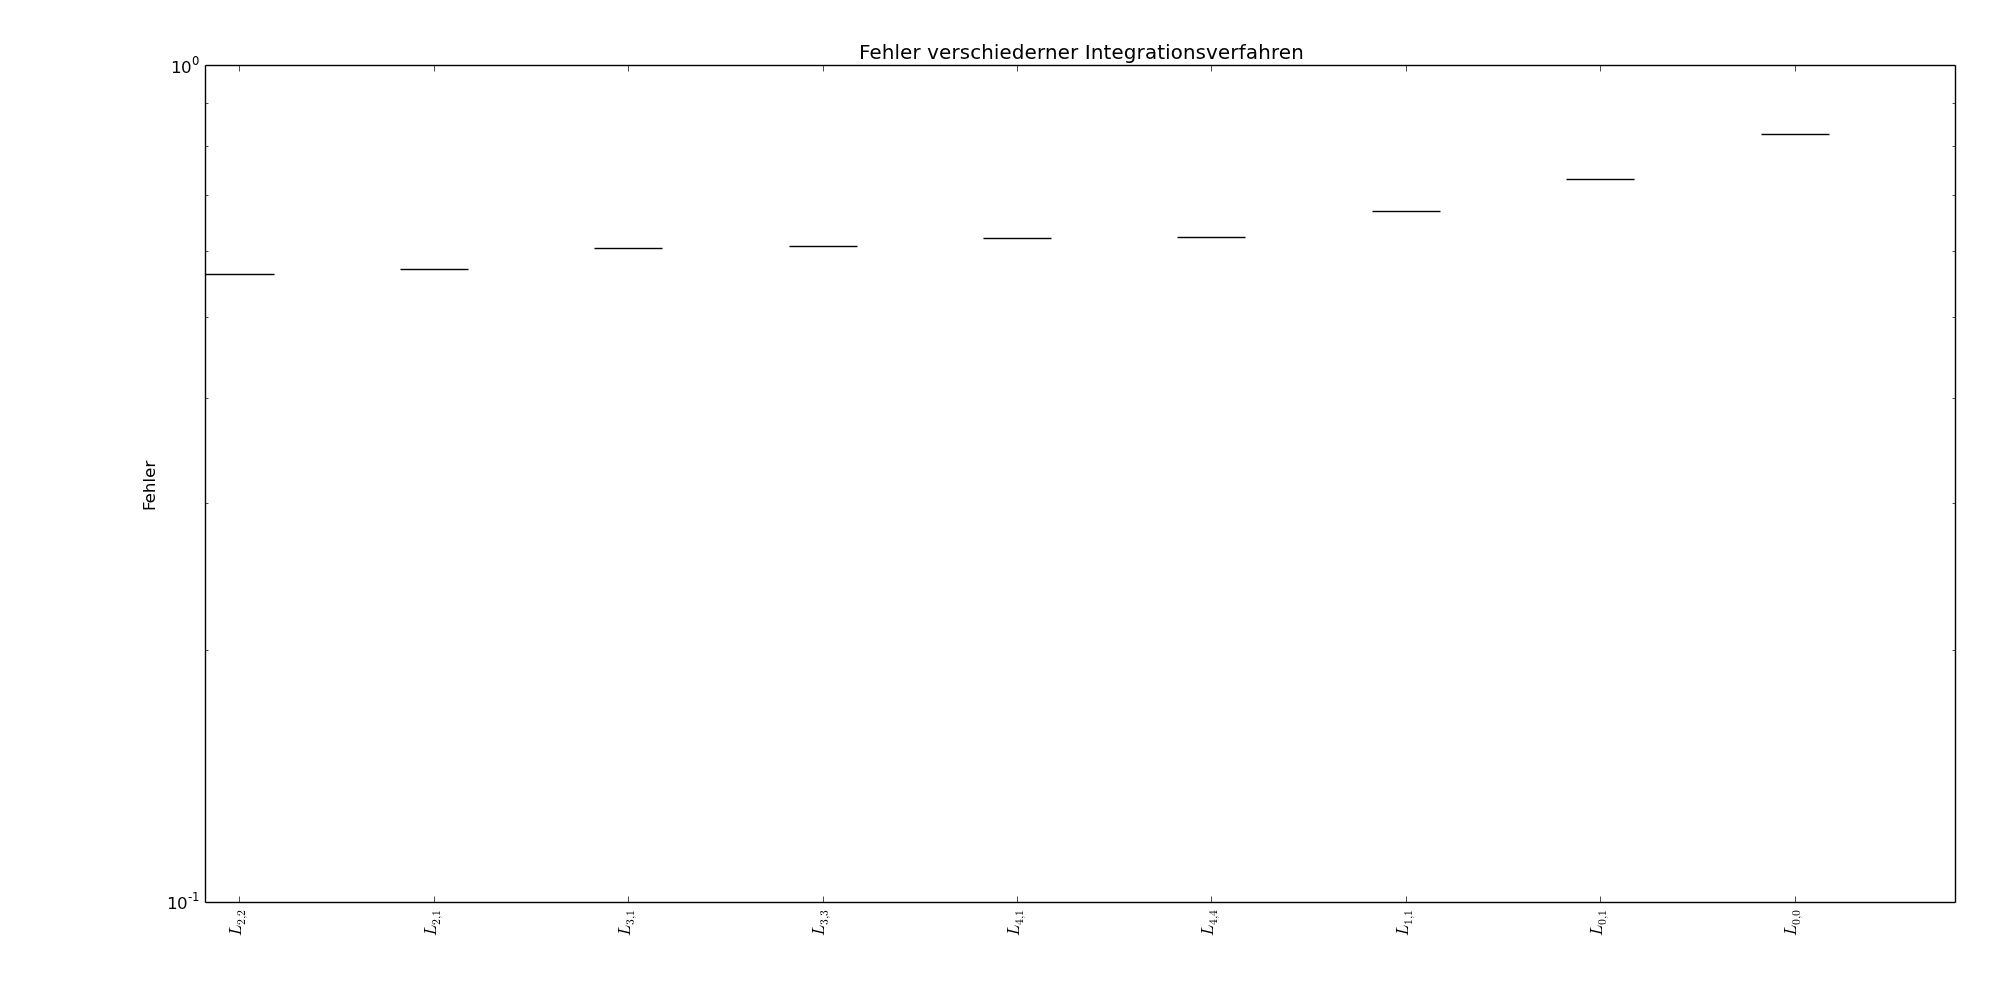
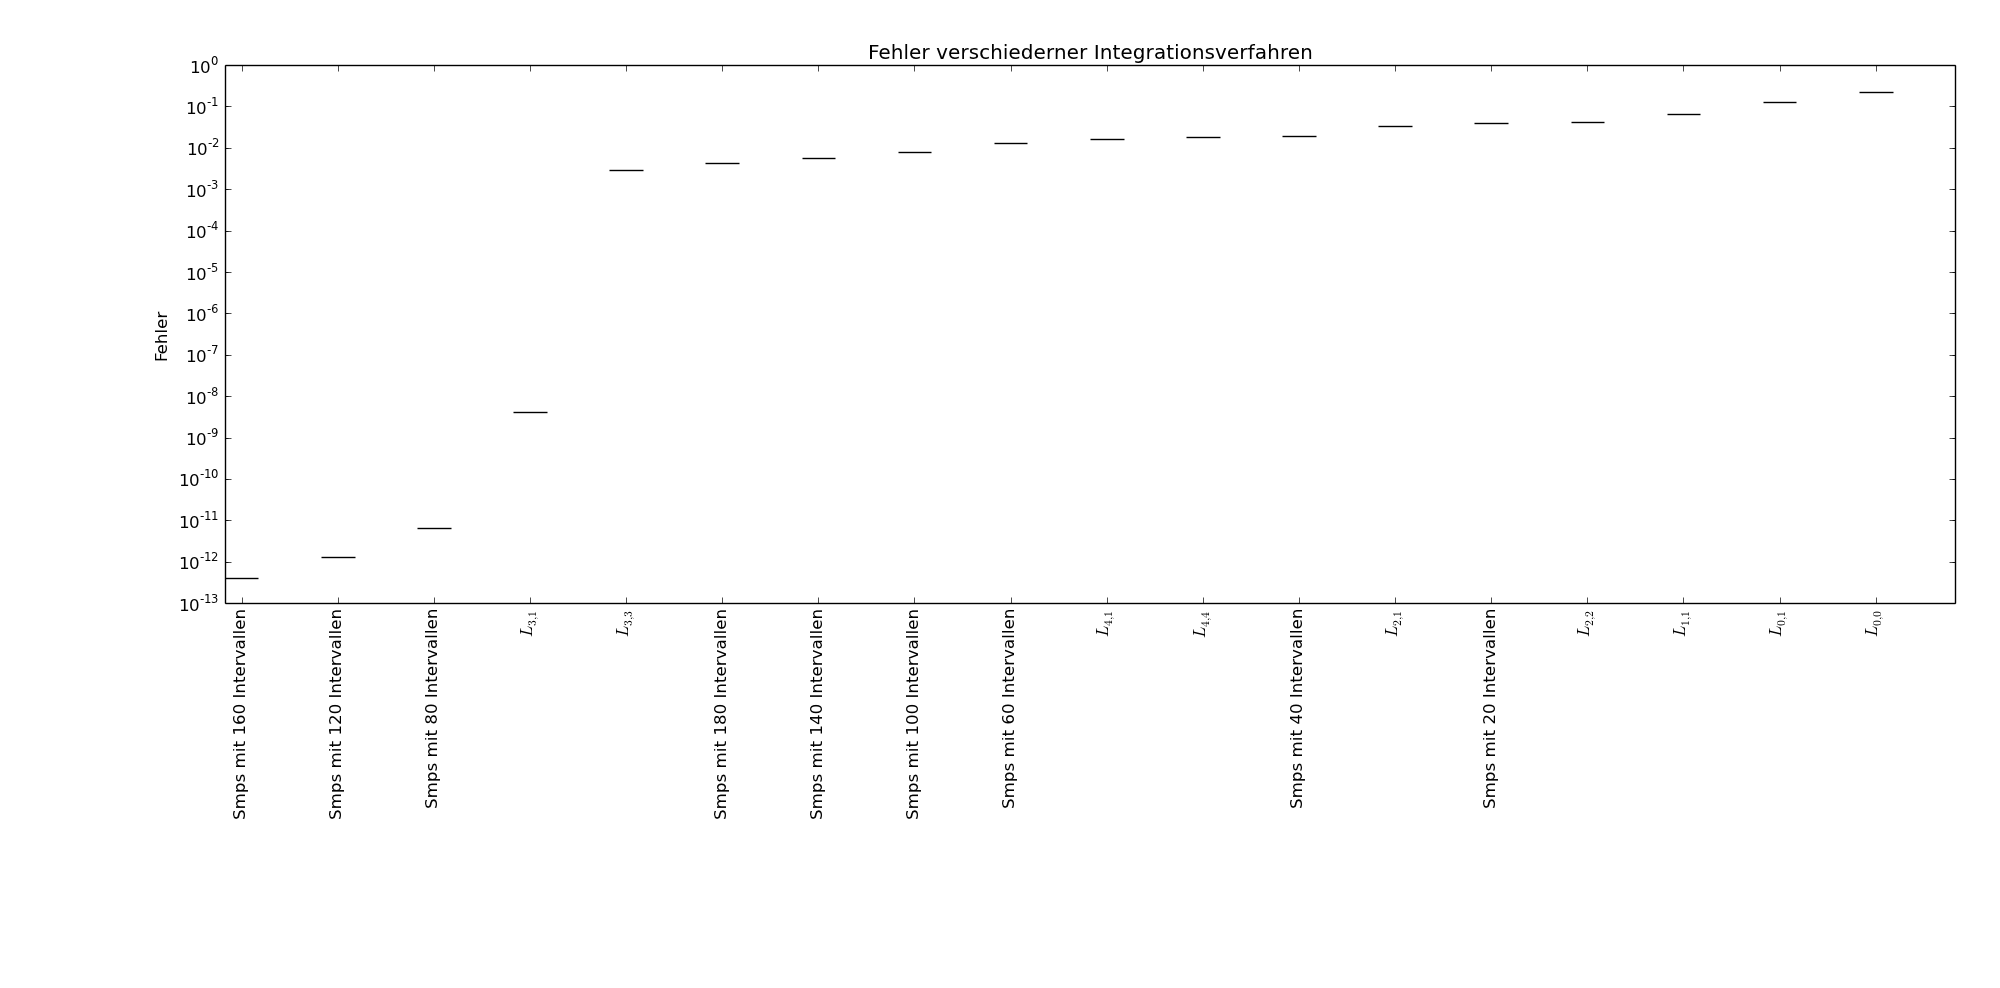
7.2.2 Finish

diff --git a/sheet7/sheet7.py b/sheet7/sheet7.py
@@ -164,31 +164,33 @@ for i in range(0,5):
 		if((i == j) or (j == 1 and i !=1)):
 			l.append((np.abs(np.pi/(3.*np.sqrt(3.))-(romberg(f,0,np.pi/2,i,j))),'$L_{'+ str(i) +','+ str(j) +'}$'))
 			
+
+for i in range(20,200,20):
+	l.append((np.abs(np.pi/(3.*np.sqrt(3.))-(int(f,0,np.pi/2,i,ISI))),'Smps mit '+ str(i) +'       Intervallen'))
+	
+
 			
 #Der Plot wurde als vgl3.png exportiert.			
-l =  sorted(l, key=lambda tupel: tupel[0])
+#l =  sorted(l, key=lambda tupel: tupel[0])
+#A = []
+#legend = []
+#for i in l:
+#	A.append(i[0])
+#	legend.append(i[1])
 
-A = []
-legend = []
-for i in l:
-	A.append(i[0])
-	legend.append(i[1])
+#A = np.array(A)
+#N = len(A)
 
-A = np.array(A)
-N = len(A)
+#ind = np.arange(N)   
+#width = 0.35 
 
-ind = np.arange(N)   
-width = 0.35 
+#p = plt.bar(ind, A,width, color='r')
+#plt.yscale('log')
 
-p = plt.bar(ind, A,width, color='r')
-plt.yscale('log')
+#plt.ylabel('Fehler')
+#plt.title('Fehler verschiederner Integrationsverfahren')
+#plt.xticks(ind+width/2., legend, rotation=90)
+#plt.tight_layout()
 
-plt.ylabel('Fehler')
-plt.title('Fehler verschiederner Integrationsverfahren')
-plt.xticks(ind+width/2., legend, rotation=90)
-plt.tight_layout()
-
-x = np.arange(0,100,0.1)
-plt.plot(x,)
-plt.show()
+#plt.show()
  
